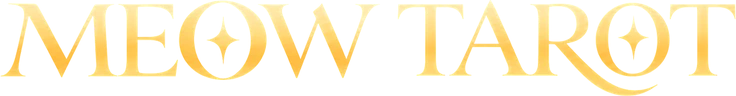
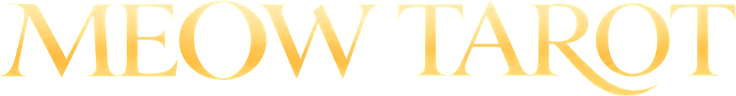
Calm loading emblem, add twinkling stars in title O's
Claude-Session: https://claude.ai/code/session_017USjXvUxtd6LkE6EBBvYUV

Changed region(s): [[0.2812, 0.2188, 0.3438, 0.625], [0.8438, 0.2188, 0.9062, 0.5938]]

diff --git a/index.html b/index.html
@@ -27,12 +27,12 @@ function track(n,p){try{gtag("event",n,p||{})}catch(e){}}
 <body>
 <div id="splash" role="status" aria-label="Meow Tarot 불러오는 중" style="position:fixed;inset:0;z-index:9999;display:grid;place-items:center;background:#0B0B0D;transition:opacity .5s ease"><div class="sp-emb"><img class="sp-ring" src="assets/emblem-ring.webp" alt=""><img class="sp-star" src="assets/emblem-star.webp" alt=""></div></div>
 <style>
-.sp-emb{position:relative;width:112px;aspect-ratio:723/653;perspective:400px}
+.sp-emb{position:relative;width:112px;aspect-ratio:723/653}
 .sp-emb img{position:absolute;inset:0;width:100%;height:100%}
 .sp-ring{animation:spRing 2.4s ease-in-out infinite}
-.sp-star{animation:spStar 1.2s ease-in-out infinite}
-@keyframes spRing{0%,100%{transform:rotateY(0);filter:drop-shadow(0 0 2px rgba(240,190,80,.2))}50%{transform:rotateY(180deg);filter:drop-shadow(0 0 16px rgba(240,190,80,.55))}}
-@keyframes spStar{0%,100%{transform:scale(.7) rotate(0);opacity:.6;filter:drop-shadow(0 0 0 rgba(255,215,120,0))}50%{transform:scale(1.15) rotate(45deg);opacity:1;filter:drop-shadow(0 0 14px rgba(255,215,120,.9))}}
+.sp-star{animation:spStar 1.6s ease-in-out infinite}
+@keyframes spRing{0%,100%{filter:drop-shadow(0 0 2px rgba(240,190,80,.15))}50%{filter:drop-shadow(0 0 14px rgba(240,190,80,.5))}}
+@keyframes spStar{0%,100%{transform:scale(.8);opacity:.6;filter:drop-shadow(0 0 0 rgba(255,215,120,0))}50%{transform:scale(1.12);opacity:1;filter:drop-shadow(0 0 12px rgba(255,215,120,.9))}}
 @media (prefers-reduced-motion:reduce){.sp-ring{animation:none}.sp-star{animation:spFade 1.6s ease-in-out infinite}@keyframes spFade{50%{opacity:.4}}}
 </style>
 <script>(function(){var t0=Date.now(),done=false;function hide(){if(done)return;done=true;var s=document.getElementById("splash");if(!s)return;setTimeout(function(){s.style.opacity="0";setTimeout(function(){s.remove()},500)},Math.max(0,1400-(Date.now()-t0)))}window.addEventListener("load",hide);setTimeout(hide,3500)})();</script>
@@ -437,12 +437,17 @@ details.tp,.summary{border-top:0}
 .demo summary span{color:var(--gold);font-size:13px}
 .demo[open] summary{margin-bottom:12px}
 #dailyCard{width:100%}
+.wm{margin:0;line-height:0;position:relative;display:inline-block}
 .wordmark{display:block;height:20px;width:auto;max-width:48vw;object-fit:contain}
+.wm-star{position:absolute;animation:wmTw 2.6s ease-in-out infinite}
+.wm-star.s2{animation-delay:1.3s}
+@keyframes wmTw{0%,100%{opacity:.55;transform:scale(.8);filter:drop-shadow(0 0 0 rgba(255,215,120,0))}50%{opacity:1;transform:scale(1.15);filter:drop-shadow(0 0 4px rgba(255,215,120,.95))}}
+@media (prefers-reduced-motion:reduce){.wm-star{animation:none}}
 </style>
 
 <main class="app">
   <header class="topbar">
-    <h1 style="margin:0;line-height:0"><img class="wordmark" src="assets/wordmark.webp" alt="Meow Tarot" width="168" height="22"></h1>
+    <h1 class="wm"><img class="wordmark" src="assets/wordmark.webp" alt="Meow Tarot" width="168" height="22"><img class="wm-star" src="assets/wm-star1.webp" alt="" style="left:27.74%;top:14.69%;width:5.11%;height:54.55%"><img class="wm-star s2" src="assets/wm-star2.webp" alt="" style="left:83.67%;top:13.99%;width:4.74%;height:51.05%"></h1>
     <div class="ms-wrap"><span class="ms-label" id="msLabel">MY TAROT<br>MASTER</span><button class="master-switch" id="masterSwitch" type="button" aria-labelledby="msLabel switchName"><img id="switchFace" src="assets/face-noel.webp" alt=""><span id="switchName">노을</span></button></div>
   </header>
 
